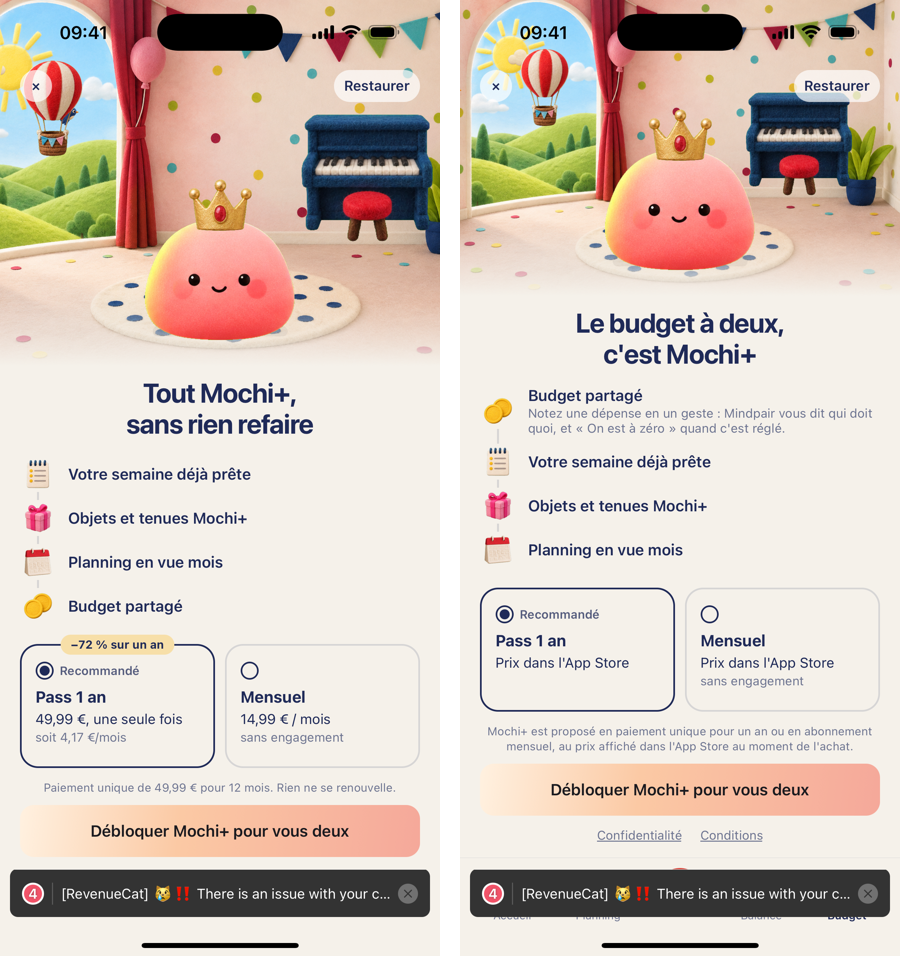
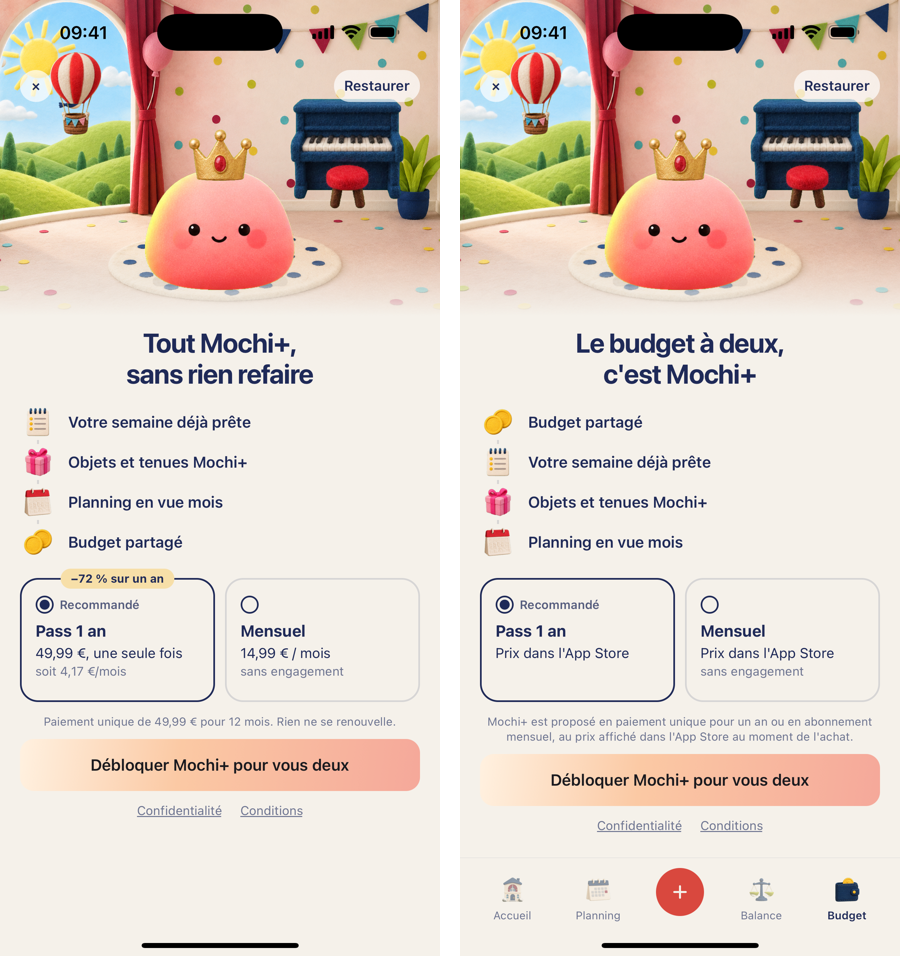
Paywall : même hauteur de pièce dans l'onglet Budget et ailleurs

diff --git a/src/components/premium/paywall-layouts.js b/src/components/premium/paywall-layouts.js
@@ -78,7 +78,7 @@ function TopBar({ d, color = INK, bg = 'rgba(255,255,255,0.7)' }) {
 export function LayoutA({ d }) {
   const T = useTokens();
   const { height: SH } = useWindowDimensions();
-  const sceneH = Math.max(120 + d.insets.top, SH - (d.embedded ? 660 : 590));
+  const sceneH = Math.max(120 + d.insets.top, SH - 640);
   return (
     <View style={{ flex: 1, backgroundColor: T.bg }}>
       <View>
@@ -90,15 +90,15 @@ export function LayoutA({ d }) {
         <View style={{ marginTop: 12 }}>
           <View style={{ position: 'absolute', left: 17, top: 20, bottom: 20, width: 2, backgroundColor: T.line }} />
           {(d.benefits || t.benefits).map((b, i) => (
-            <View key={b.t} style={{ flexDirection: 'row', alignItems: 'center', gap: 12, paddingVertical: 4 }}>
+            <View key={b.t} style={{ flexDirection: 'row', alignItems: 'center', gap: 12, paddingVertical: 2 }}>
               <View style={{ width: 36, height: 36, borderRadius: 18, backgroundColor: T.bg, alignItems: 'center', justifyContent: 'center' }}><Image source={ICONS[b.icon]} style={{ width: 30, height: 30 }} /></View>
-              <View style={{ flex: 1 }}><Text style={{ fontSize: 15.5, fontWeight: '600', color: T.ink }}>{b.t}</Text>{d.context && i === 0 ? <Text style={{ fontSize: 12.5, color: T.muted, marginTop: 1 }}>{b.s}</Text> : null}</View>
+              <View style={{ flex: 1 }}><Text style={{ fontSize: 15.5, fontWeight: '600', color: T.ink }}>{b.t}</Text>{d.context && i === 0 && !d.embedded ? <Text style={{ fontSize: 12.5, color: T.muted, marginTop: 1 }}>{b.s}</Text> : null}</View>
             </View>
           ))}
         </View>
         <View style={{ marginTop: 16 }}><SideOffers d={d} ink={T.ink} muted={T.muted} line={T.line} cardBg={T.bg} /></View>
         <Footer d={d} ink={T.ink} muted={T.muted} short />
-        {d.embedded ? <View style={{ height: 70 }} /> : null}
+        {d.embedded ? <View style={{ height: 20 }} /> : null}
       </View>
     </View>
   );

diff --git a/app/paywall.js b/app/paywall.js
@@ -58,7 +58,7 @@ export function PaywallView({ embedded = false, context = null }) {
   };
   const open = url => { if (url) Linking.openURL(url).catch(() => {}); };
   const d = {
-    context, insets: embedded ? { ...insets, bottom: insets.bottom + 84 } : insets, next, embedded, plan, setPlan, busy, msg, leave, onBuy, onRestore,
+    context, insets: embedded ? { ...insets, bottom: insets.bottom + 60 } : insets, next, embedded, plan, setPlan, busy, msg, leave, onBuy, onRestore,
     openPrivacy: () => open(LEGAL_URLS.privacy), openTerms: () => open(LEGAL_URLS.eula),
     badge: saving > 0 ? fill(t.passBadge, { n: saving }) : null,
     passPrice: pass ? fill(t.passPrice, { price: pass.priceString }) : t.priceUnavailable,
